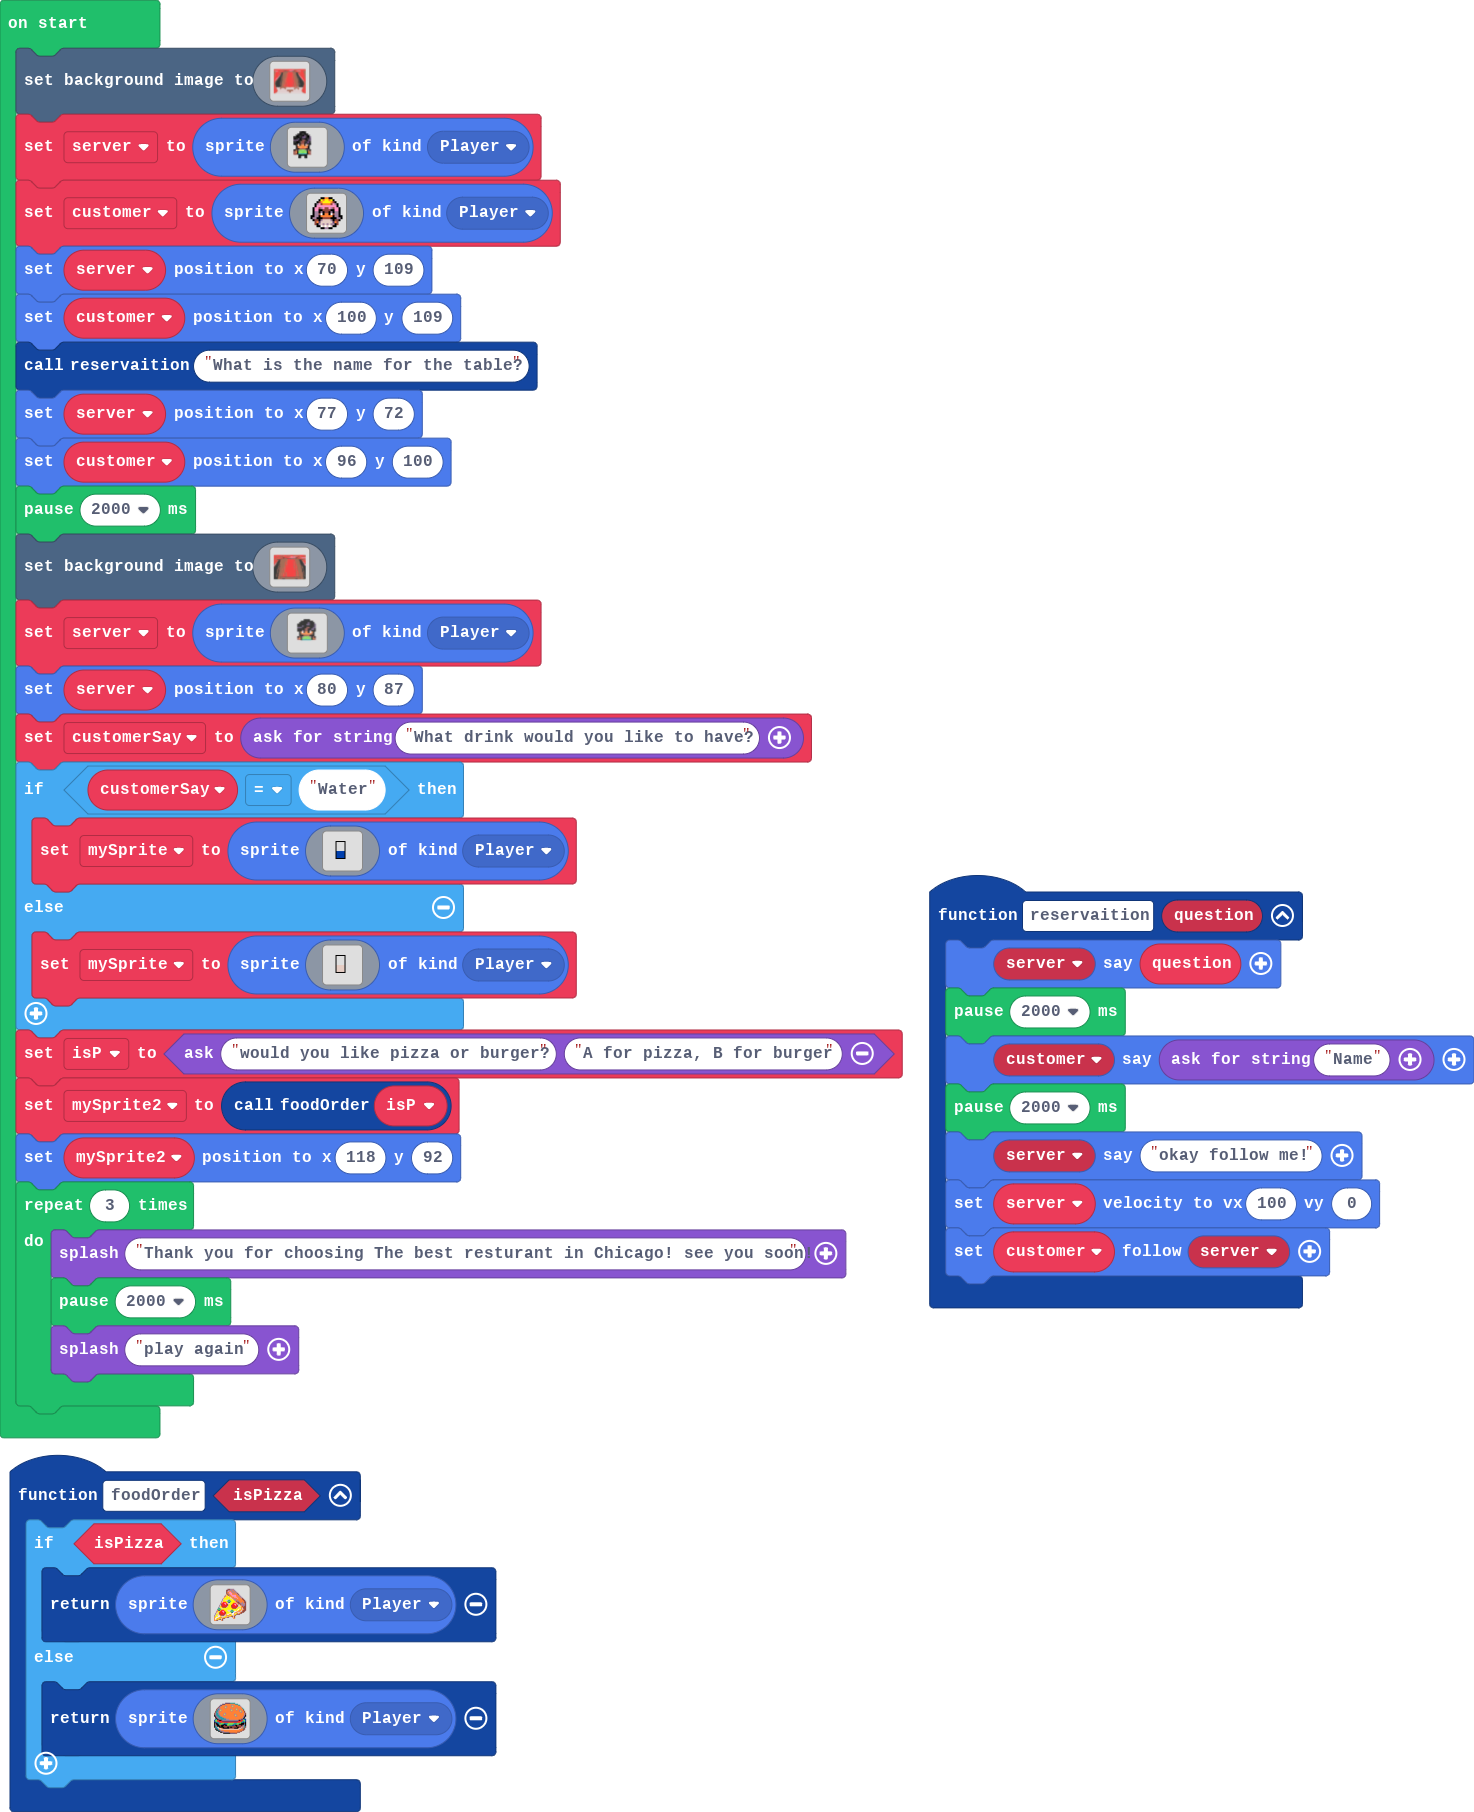
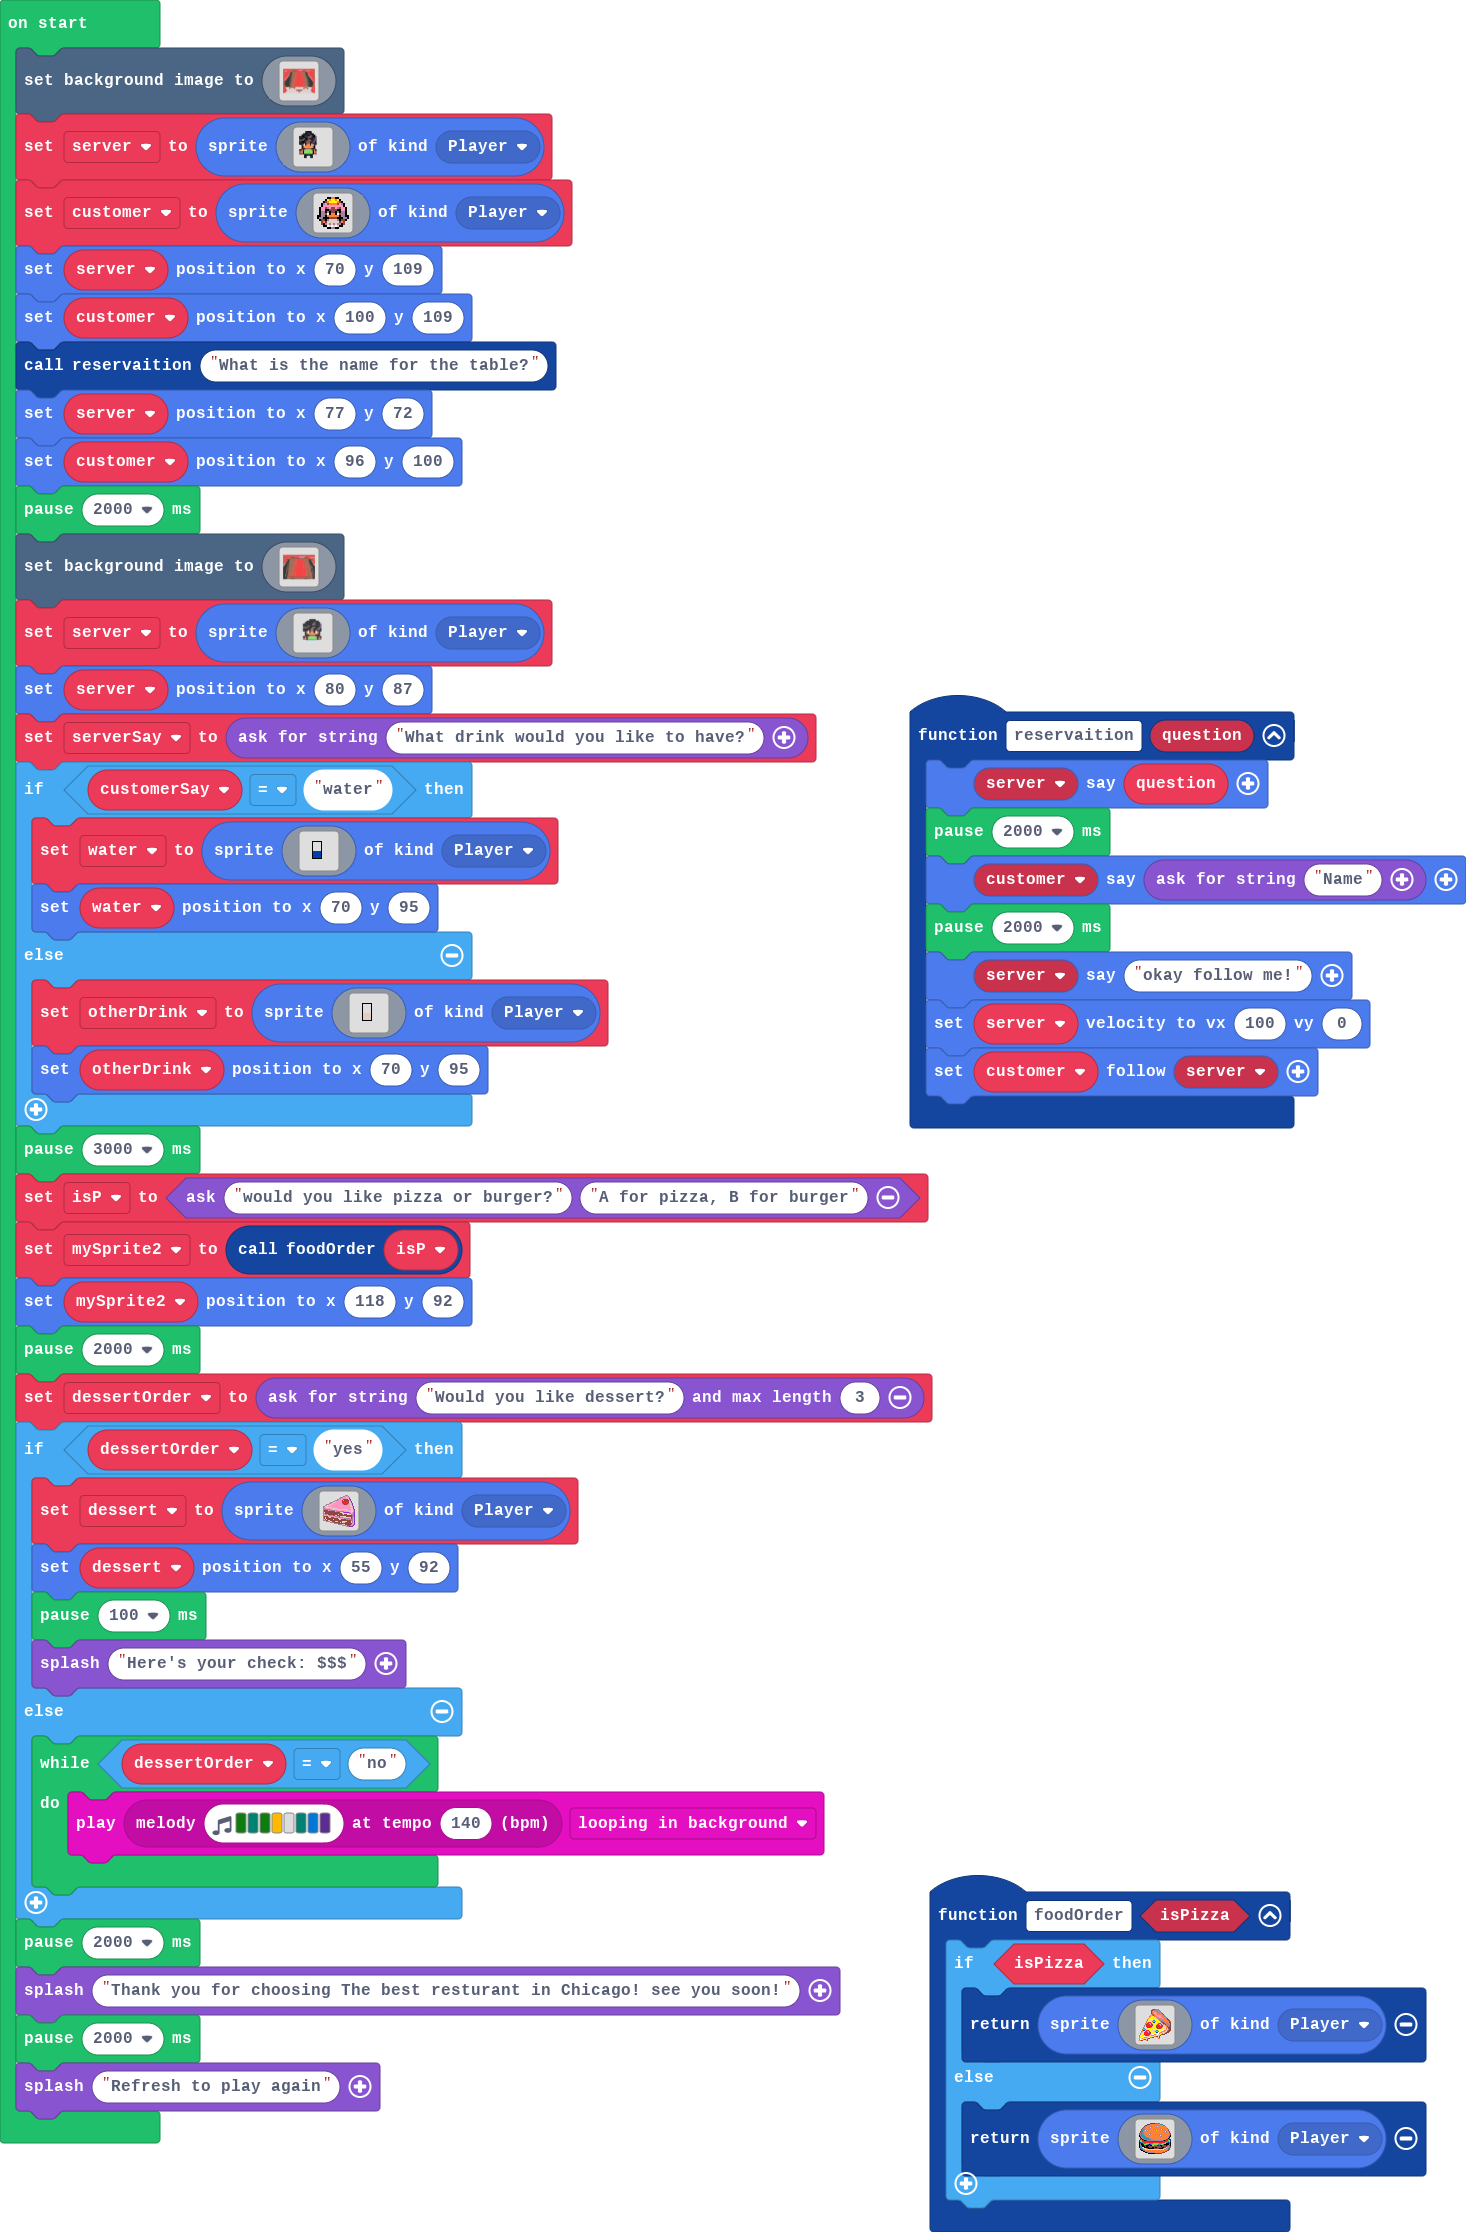
Update pxt.json, main.blocks, main.ts, tilemap.g.jres, tilemap.g.ts, images.g.jres, images.g.ts

diff --git a/main.ts b/main.ts
@@ -80,7 +80,10 @@ function reservaition (question: string) {
     server.setVelocity(100, 0)
     customer.follow(server)
 }
-let mySprite: Sprite = null
+let dessert: Sprite = null
+let otherDrink: Sprite = null
+let water: Sprite = null
+let customerSay = ""
 let customer: Sprite = null
 let server: Sprite = null
 scene.setBackgroundImage(img`
@@ -482,9 +485,9 @@ server = sprites.create(img`
     ....................................................................................................
     `, SpriteKind.Player)
 server.setPosition(80, 87)
-let customerSay = game.askForString("What drink would you like to have?")
-if (customerSay == "Water") {
-    mySprite = sprites.create(img`
+let serverSay = game.askForString("What drink would you like to have?")
+if (customerSay == "water") {
+    water = sprites.create(img`
         ................................
         ................................
         ................................
@@ -518,8 +521,9 @@ if (customerSay == "Water") {
         ................................
         ................................
         `, SpriteKind.Player)
+    water.setPosition(70, 95)
 } else {
-    mySprite = sprites.create(img`
+    otherDrink = sprites.create(img`
         ................................
         ................................
         ................................
@@ -553,12 +557,58 @@ if (customerSay == "Water") {
         ................................
         ................................
         `, SpriteKind.Player)
+    otherDrink.setPosition(70, 95)
 }
+pause(3000)
 let isP = game.ask("would you like pizza or burger?", "A for pizza, B for burger")
 let mySprite2 = foodOrder(isP)
 mySprite2.setPosition(118, 92)
-for (let index = 0; index < 3; index++) {
-    game.splash("Thank you for choosing The best resturant in Chicago! see you soon!")
-    pause(2000)
-    game.splash("play again")
+pause(2000)
+let dessertOrder = game.askForString("Would you like dessert?", 3)
+if (dessertOrder == "yes") {
+    dessert = sprites.create(img`
+        ......................bbb.......
+        ....................bb333b......
+        .................bbb333d33b.....
+        ................bb333333d3a.....
+        ..............bb33332eeeedba....
+        ............bbb333323eee2e3a....
+        ..........bbd333333e22222ed3a...
+        .......bbbdd3333333e22222edda...
+        ......bb3d333333333be222eb3d3a..
+        ...bbb3dd33333333333beeeb33d3a..
+        ..b3ddd33333333333333333333dda..
+        bbddd3333333333333333333333dd3a.
+        b33dddddd3333333333333333333d3a.
+        bb3333333ddddd33333333333333dda.
+        bbbbbbb333dd33dddddddddd3333ddba
+        beeee3bbbbbb3333dd33333ddd33dd3a
+        beeeeeeeeeee3bbbbbbbb33333dddd3a
+        bdeeeeeeeeeeeeeeedddbaaaaab3d3ba
+        bbeeeeeeeeeeeeeeeeedddddddbb33ba
+        b3bb3eeeeeeeeeedeeeedeeeddddbbba
+        b33333bbb3eeddeeeeeeeeeeeeeeebba
+        beeeed333333bbb3eddddddeeeeeebba
+        bedeeeddeee3333bbbbb3dddddddeb3a
+        bedeeeeeeeeeeeedd3333bbbbbb3eb3a
+        bdedeeeeeedeeeeeddeeeeebbbbbbb3a
+        bbbeeddeeeeeeeeeeeeeeeeeeeeebb3a
+        ...bbbbddeeedddeeeedddddeeeedb3a
+        .......bbbbeeeeeededddeeeeeedb3a
+        ...........bbbbeeeeeeeeeeeeee33a
+        ...............bbbbdddeeeeeeb3ba
+        ...................bbbbdeeeb3ba.
+        .......................bbbaaaa..
+        `, SpriteKind.Player)
+    dessert.setPosition(55, 92)
+    pause(100)
+    game.splash("Here's your check: $$$")
+} else {
+    while (dessertOrder == "no") {
+        music.play(music.stringPlayable("G F G A - F E D ", 140), music.PlaybackMode.LoopingInBackground)
+    }
 }
+pause(2000)
+game.splash("Thank you for choosing The best resturant in Chicago! see you soon!")
+pause(2000)
+game.splash("Refresh to play again")

diff --git a/images.g.ts b/images.g.ts
@@ -1,0 +1,95 @@
+// Auto-generated code. Do not edit.
+namespace myImages {
+
+    helpers._registerFactory("image", function(name: string) {
+        switch(helpers.stringTrim(name)) {
+            case "image1":
+            case "water":return img`
+................................
+................................
+................................
+................................
+................................
+................................
+................................
+................................
+................................
+................................
+................................
+................................
+................................
+..........ddddddddd.............
+..........ddddddddd.............
+..........d8888888d.............
+..........d8888888d.............
+..........d8888888d.............
+..........d8888888d.............
+..........d8888888d.............
+..........d8888888d.............
+..........d8888888d.............
+..........dd88888dd.............
+...........d88888d..............
+...........ddddddd..............
+............ddddd...............
+................................
+................................
+................................
+................................
+................................
+................................
+`;
+            case "image2":
+            case "other drinks":return img`
+................................
+................................
+................................
+................................
+................................
+................................
+................................
+................................
+................................
+................................
+................................
+................................
+................................
+........dddddddddddddd..........
+........dddddddddddddd..........
+........dddeeeeeeeeddd..........
+........dddeeeeeeeeddd..........
+........dddeeeeeeeeddd..........
+........dddeeeeeeeeddd..........
+........dddeeeeeeeeddd..........
+........dddeeeeeeeeddd..........
+........dddeeeeeeeeddd..........
+........dddeeeeeeeeddd..........
+........dddeeeeeeeeddd..........
+........dddddddddddddd..........
+........dddddddddddddd..........
+........dddddddddddddd..........
+................................
+................................
+................................
+................................
+................................
+`;
+        }
+        return null;
+    })
+
+    helpers._registerFactory("animation", function(name: string) {
+        switch(helpers.stringTrim(name)) {
+
+        }
+        return null;
+    })
+
+    helpers._registerFactory("song", function(name: string) {
+        switch(helpers.stringTrim(name)) {
+
+        }
+        return null;
+    })
+
+}
+// Auto-generated code. Do not edit.

diff --git a/tilemap.g.ts b/tilemap.g.ts
@@ -1,0 +1,14 @@
+// Auto-generated code. Do not edit.
+namespace myTiles {
+    //% fixedInstance jres blockIdentity=images._tile
+    export const transparency16 = image.ofBuffer(hex``);
+
+    helpers._registerFactory("tile", function(name: string) {
+        switch(helpers.stringTrim(name)) {
+            case "transparency16":return transparency16;
+        }
+        return null;
+    })
+
+}
+// Auto-generated code. Do not edit.
